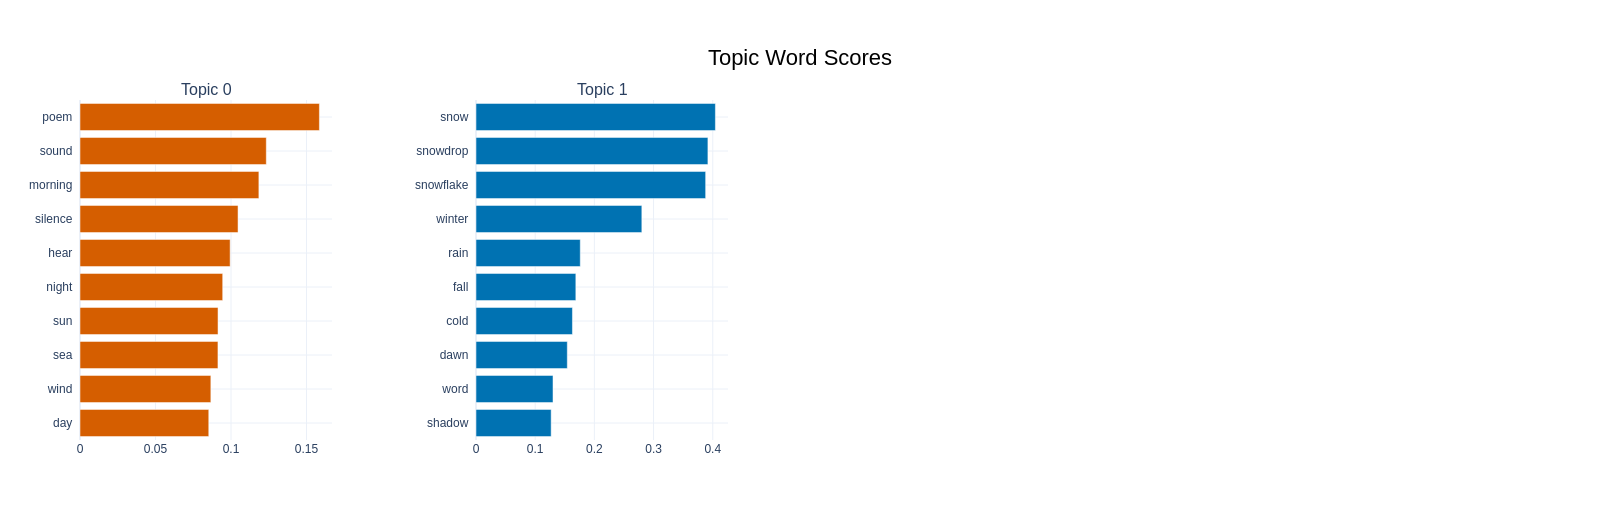
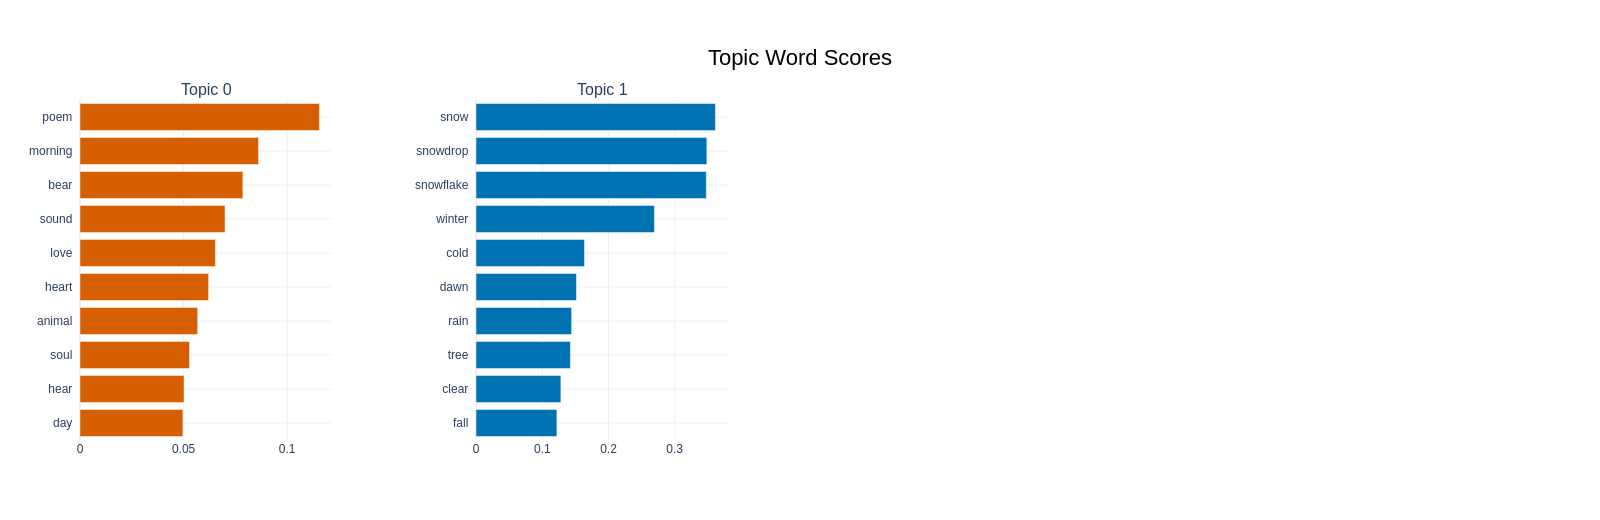
novo bertopic

diff --git a/modelagemTopicos/bertopic3.py b/modelagemTopicos/bertopic3.py
@@ -24,7 +24,7 @@ os.environ["TOKENIZERS_PARALLELISM"] = "false"
 
 SEED = 42
 
-TITLE = "reference"
+TITLE = "original"
 # original reference chatGPTPrompt1 googleTradutor maritacaPrompt1
 
 # Caminho para o arquivo de entrada
@@ -35,14 +35,14 @@ CAMINHO_CSV = "poemas_unificados.csv"
 PASTA_SAIDA = "results"
 
 # Coluna do DataFrame a ser utilizada
-COLUNA_POEMAS = "translated_poem"  # "original_poem", "translated_poem", "translated_by_TA"
+COLUNA_POEMAS = "original_poem"  # "original_poem", "translated_poem", "translated_by_TA"
 
 # Definição dos idiomas de origem e destino para filtrar o CSV
 IDIOMA_ORIGEM = "fr_XX"  #  "fr_XX", "pt_XX", "en_XX"
-IDIOMA_DESTINO = "en_XX" #  "fr_XX", "pt_XX", "en_XX"
+IDIOMA_DESTINO = "pt_XX" #  "fr_XX", "pt_XX", "en_XX"
 
 # Idioma para o pré-processamento (NLTK e spaCy)
-IDIOMA_PROC = "en_XX"
+IDIOMA_PROC = "fr_XX"
 
 
 
